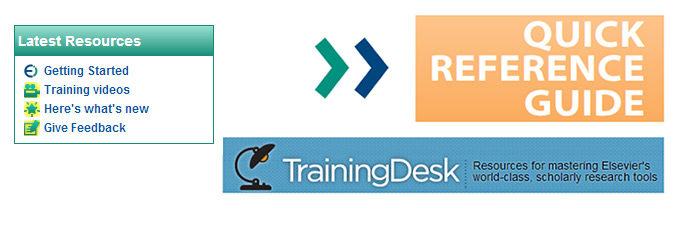
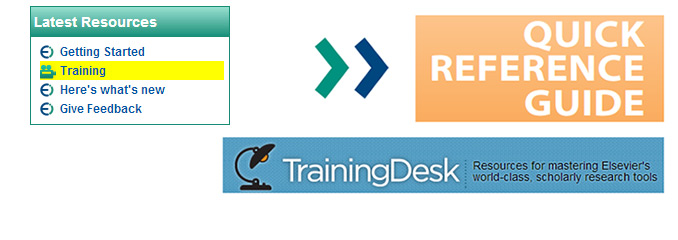
Modal Dialog and latest Resources Changes

Changed region(s): [[0.0, 0.0, 0.3407, 0.6125]]

diff --git a/ROOT-Maven/src/main/webapp/static/css/ev_search.css b/ROOT-Maven/src/main/webapp/static/css/ev_search.css
@@ -33,8 +33,8 @@
 
 
 #latestresources ul li.trainingVids {background: url(/static/images/EV_video.png) no-repeat left;}
-#latestresources ul li.whatsNew {background: url(/static/images/EV_new.png) no-repeat left;}
-#latestresources ul li.giveFeedback {background: url(/static/images/EV_feedback.png) no-repeat left; }
+#latestresources ul li.whatsNew {background: url(/static/images/EV_new_wh.png) no-repeat left;}
+#latestresources ul li.giveFeedback {background: url(/static/images/EV_feedback_wh.png) no-repeat left; }
 
 #searchformtabsbox {
 	position:relative;
